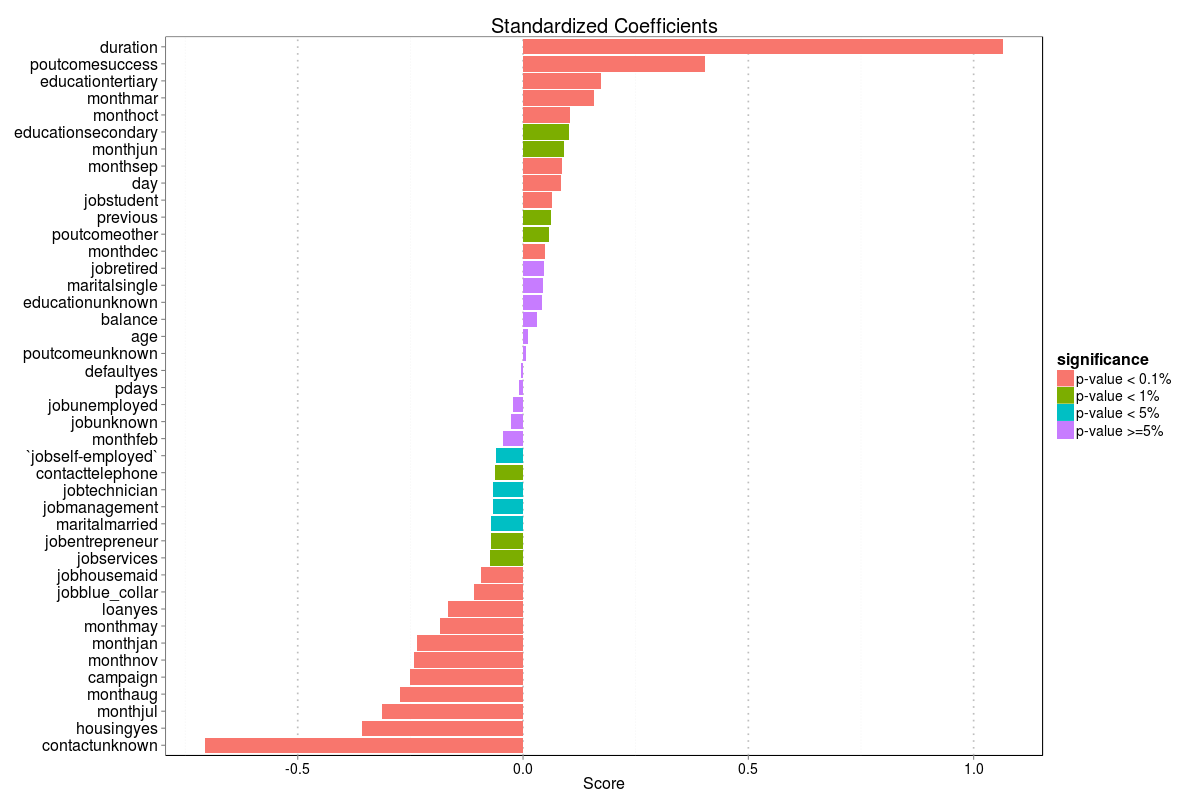
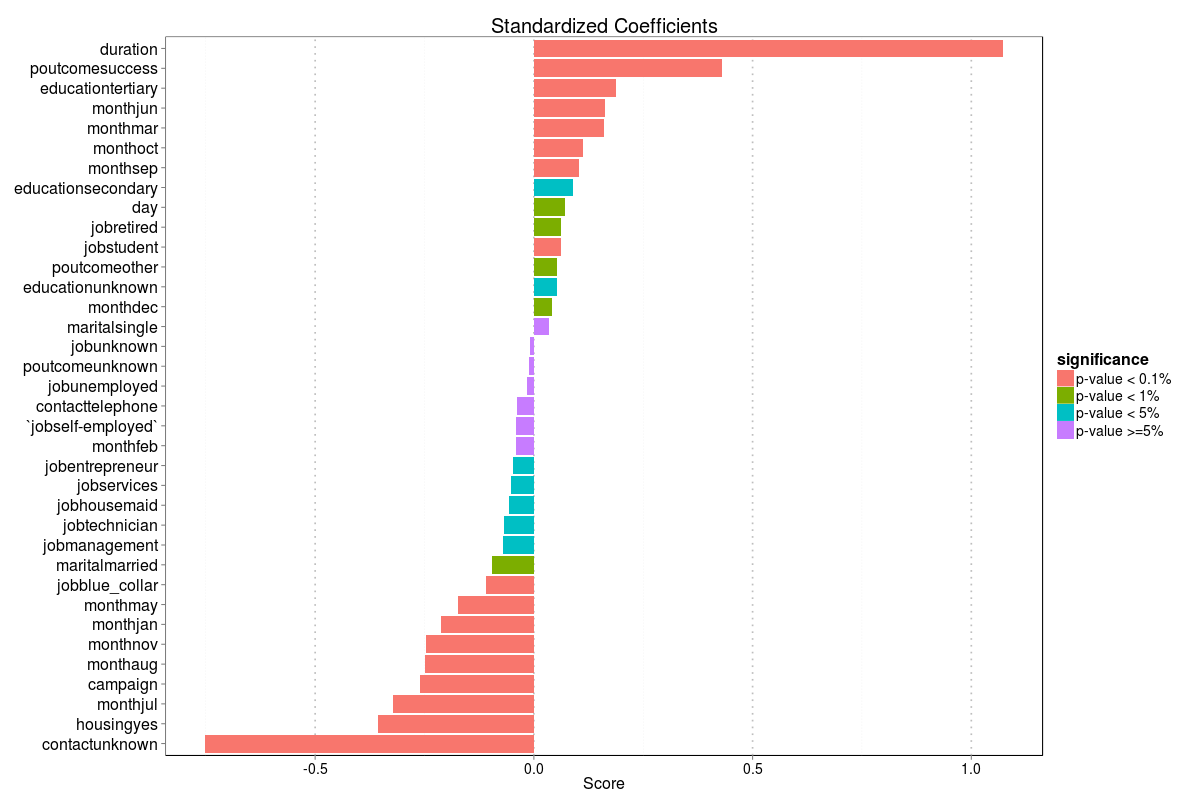
Fixed README and images

diff --git a/final-project/README.md b/final-project/README.md
@@ -42,14 +42,14 @@ The following is the first 10 data points.
 
 [Data Source is here.] (http://archive.ics.uci.edu/ml/datasets/Bank+Marketing)
 
-#### Target User ####
+#### Introduction ####
 I suppose that this shiny app tries to help a marketing analytics personel to analyze the data, get the inights, and finally evaluate ROI of the marketing campaign. This application consists of four components: Univariate plots, Multivariate plots, Modeling, and ROI simulation. 
 
 The following is a summary about how each component associates with techniques and interactivity.
 
 | **Component**  | **Techniques**  | **Interactivity**  |
 |:---------------|:----------------|:--------------------|
-| Basic Profiling (Univariate plots) | Density plot and Box plot / Bar chart and 100% Bar chart | Switch between a single plot and small multiple |
+| Basic Profiling (Univariate plots) | Density plot / Box plot / Bar chart / Stacked Bar chart (Normalized) | Switch to small multiple |
 | Multivariate Plots | Heat Map / Scatte Plot | Zooming |
 | Modeling | Bar Chart | Sorting |
 | ROI Simulation | Line Chart / Bar Chart | None |
@@ -60,59 +60,115 @@ The following is a summary about how each component associates with techniques a
 #### Basic Profiling (Univariate plots) ####
 
 ##### Density plot and Box plot #####
+In the dataset, there are seven numeric variables such as `age`,`balance`, and so on. For them, I created density plot and box plot. Among them, `duration`, which means last contact duration (I guess how many seconds a customer talked with the bank personel at the most recent call), has distinct distributions between the customer who opend term deposit and the customer who did not.  
 
-![IMAGE](img/dataset.png)
+![IMAGE](img/density_box.png)
 
-##### Bar chart and 100% Bar chart#####
+- Lie Factor: Almost one
+- Data Ink Ratio: High enough for easily understanding
+- Data Density: It is possible that the two distributions are almost same shape. Therefore, to avoid data density problem, I used small multiple.
+
+
+##### Bar chart and Stacked Bar chart#####
+There are lots of categorical variables such as `job`,`married`, and so on. For categorical variables, bar chart is one of the easiest way to demonstrate how many customers or how much percentage of customers accepted the campaign. For example, the following is the bar chart and the normalized stacked area bar chart about `job`. By looking at the normal bar chart, I can know which jobs are dominant in the data. Also, when I looked at normalized stacked bar chart, student and retired customer can accept the campagin more likey than other jobs.
 
 ![IMAGE](img/bar.png)
 ![IMAGE](img/100bar.png)
 
-#### Multivariate Plots ####
+- Lie Factor: The x axis is  fixed from 0 to the highest. So, Lie factor should be one.
+- Data Ink Ratio: High enough because I deleted minor grids and customized major grid.
+- Data Density: I flipped x and y axis for the audiences to read the labels more easily. Therefore, data density is fair. 
 
+#### Multivariate Plots ####
 ##### Heat Map #####
+Although I found out some interesting variables which seem to predict customer reactions, I needed deeper analysis. So, at this time, multivariate plots were useful. First of all, heat map helped me to examine the interactions between two variables. For example, when I used `duration` as x axis and `job` as y axis for heat map, I found out some buckets which have higher pecentage of the customer who accepted the campagin (Red buckets).
+
 ![IMAGE](img/heatmap.png)
+
+- Lie Factor: To avoid exaggeration, I used equal interval method instead equal frequency metohd for discretization. So, I believe that there is no lie factor.
+- Data Ink Ratio: High enough
+- Data Density: Although some one plots the numbers on the heat map, I did not do so because I wanted to avoid data density problem. 
 
 
 ##### Scatter Plot #####
+Heat map can compare any two variables if I discretized numeric variables. However, I am interested in more raw data only for numeric variables. So, I created a scatter plot. 
+
 ![IMAGE](img/scatterplot.png)
+
+- Lie Factor: Almost one because I did not emphasize any elements.
+- Data Ink Ratio: High enough
+- Data Density: Data density may be a litte bit problem since the data points are more than 40,000 in the data. So, in order to ease too dense points, I did random sampling, employed facet_wrap function, and specified smaller alpha for points.
 
 #### Modeling ####
 ##### Bar Chart #####
+For predicting the customers' response, I developed logistic regression model. In order to evaluate which variables have impact on the oredictions, I created a bar chart of the standardized coefficients. The variables are sorted by decreasing order of coefficients. According to the bar chart,  As `duration` increases, the likelihood that the customer accepts the campagin significantly goes up. On the other hand, if the contact is unknown, the likelihood decreases most significantly. 
+
 ![IMAGE](img/coef.png)
+
+- Lie Factor: Almost one because I did not emphasize any elements.
+- Data Ink Ratio: High enough
+- Data Density: Labels is the most important things for the audience. So, I fliped x and y axis (if I used labels in x axis, some labels are overlapped each other). I think that data density does not have issues. 
+
 
 
 #### ROI Simulation ####
 ##### Multiple Line Plot #####
+So far, I analyzed the data to investigate which variables are influencial to determine which customer more likely accepts the marketing campagin. However, more importantly, I need to think about ROI when I plan the similar campagin. So, the final part is ROI simulation. Based on the prediction model, I simulated ROI, assuming that the bank executes the similar marketing campagin. I used the simplest plots like a multi-line chart and a bar chart because the target audience would be non-experts. 
+
+The multiple line chart represents simulated revenue and cost along time series. Also, the bar chart at the bottom left is profit (= Revenue-Cost at the previous line chart). The third plot at the bottom right help me to compare the generated cash from a marketing campagin and the cost associated with execution of a campagin.
 
 ![IMAGE](img/roi.png)
 
+- Lie Factor: Almost one
+- Data Ink Ratio: High enough since I deleted unnecessary grids.
+- Data Density: I beleive that there is no issues on data density.
 
 
 ### Interactivity ###
-
 #### Basic Profiling (Univariate plots) ####
+In "Basic Profiling" page, you can select any variable. Shiny app automatically show you a bar chart or a density plot with box plots based on whether the selected variable is numeric or categorical. When you select a numeric variable, you can use log scale and small multiple for density plot. In case that you choose a categorical variable, you can switch between a simple bar chart and normalized stacked bar chart. Also you can sort the bars by decreasing or increasing order. 
 
 ![IMAGE](img/basicprofiling.png)
 
 
 #### Heat Map (Multivariate Plots) ####
+Like the previous page, you can choose two variables for constructing heat map. If you choose a numeric variable, you can specify the bin of discretization. This means you can zoom in or zoom out as you like. 
 ![IMAGE](img/heatmap_ui.png)
 
 
 #### Scatter Plot (Multivariate Plots) ####
+As another multivariate plot, you can look at a scatter plot. In this scatter plot, you can see the detail as well as the overall. Also, this plot is dense. So you can select the randam sampling portion of all the data points for constructing the plot. In addition, you can select dot size and alpha.
+
 ![IMAGE](img/scatterplot_ui.png)
 
 
 #### Modeling ####
+In this part, most of interactivity is associated with modeling. For example, you can select which independent variables are included in the modeling. In terms of data visualization, you can select either coefficients or p value for sort key and choose sort order.
+
 ![IMAGE](img/logisticreg_ui.png)
 ![IMAGE](img/logisticreg_ui2.png)
 
 #### ROI Simulation ####
+ROI simulation page only have the numeric input to simulate ROI. For example, you can input the assumed cost per person to execute a marketing campagin.
 ![IMAGE](img/roi_ui.png)
 
 
 ### Prototype Feedback ###
+- The prototype was almost same as the final deliverable other than the following changes. I got very helpful feedback, and I reflected them to my work.
 
+| **Component** | **Before**  | **Feedback**  | **changes**  |
+|:-------------------|:---------------|:----------------|:--------------------|
+| Heat Map |Background color in heat map was black |  "Black color is too dominant" | I changed the color from black to **dark gray** |
+| Modeling | Standardized coefficients bar chart could be sorted by coeffcient |"The bar plot could be sorted by p-value as well as by the coefficients" | I addded p value as annother sort key|
+| ROI Simulation |In "profit/loss bar chart", the bar's color was always blue | "It is cool if you can distinguish profit and loss by different colors" | I used red for loss and blue for profit |
+
+- All the feedback above were helpful because I thought that they improved graphs' visibility and the application's usability, and therefore I reflected them to my application. Especially, I did not expect that the background color of the heat map was important for audience. However, the group members pointed out that black color distructed the audiences' focus. This feedback was beyond my imagination.
+
+- I got a feedback that I would plot the data points on a scatter plot and overlay a fitted model to the scatter plot. Actually, I already implemented this plot (you can see `get_DecisionBoundary` function in `get_plots.R`), the plot was too dense. As I discussed in scatter plot section, the data has more than 40,000 data points, and even a simple scatter plot easily gets to have data density problem. So, I gave up it, although I appreciated this feedback. 
 
 ### Challenges ###
+- The most time-consuming part was **choosing colors in heat map**. In terms of overall visualizations in this app, I used red for "Yes" and blue for "No". However, I needed to decide the middle color because heat map needed gradation. I tried many times until the middle color looks reasonable. 
+
+- The simpler UI needed much programming efforts, especially in the first page called "Basic Profiling". This page looks simple, but the inputs are changed based on the type of the selected variable. Also, the chart itself is switched between bar chart and density plot with box plots.
+
+- 
